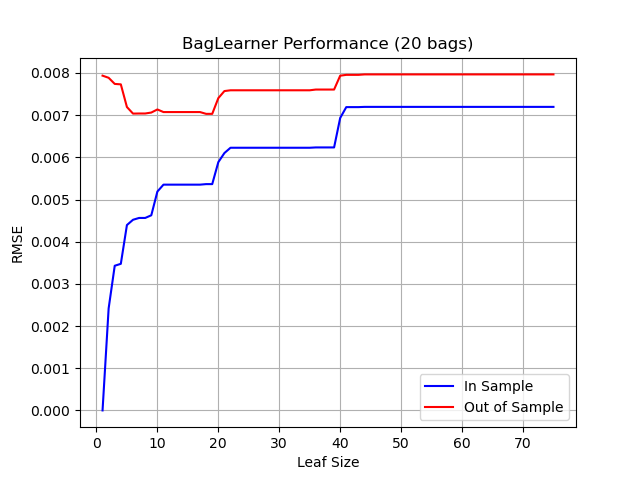
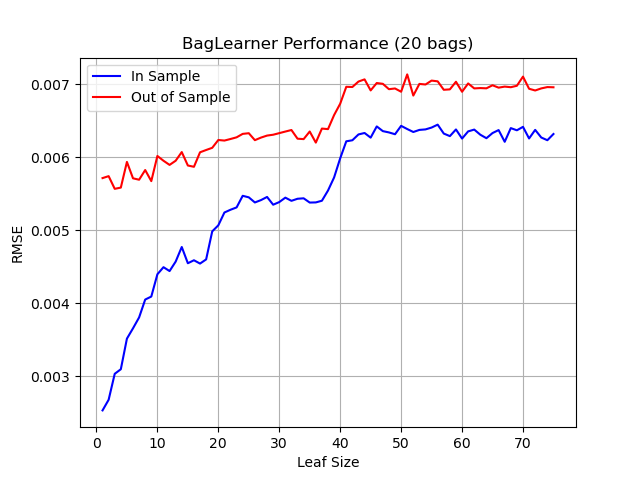
assigment completed

diff --git a/assess_learners/testlearner.py b/assess_learners/testlearner.py
@@ -25,6 +25,7 @@ GT honor code violation.
 
 import math
 import sys
+import time
 
 import numpy as np
 import matplotlib.pyplot as plt
@@ -103,6 +104,57 @@ def evaluate_bag_leaf_sizes(train_x, train_y, test_x, test_y, num_bags=20, max_l
     plt.close()
     return result
 
+def depth_from_node(tree, index):
+    if tree[index, 0] == -1:
+        return 0
+    left = index + int(tree[index, 2])
+    right = index + int(tree[index, 3])
+    return 1 + max(depth_from_node(tree, left), depth_from_node(tree, right))
+
+def evaluate_dt_vs_rt(train_x, train_y, max_leaf=75,
+                      savepath_depth='./images/depth_dt_rt.png',
+                      savepath_time='./images/time_dt_rt.png'):
+    dt_depths, rt_depths = [], []
+    dt_times, rt_times = [], []
+
+    for i in range(1, max_leaf + 1):
+        learner = dt.DTLearner(leaf_size=i, verbose=False)
+        start = time.time()
+        learner.add_evidence(train_x, train_y)
+        dt_times.append(time.time() - start)
+        dt_depths.append(depth_from_node(learner.tree, 0))
+
+        learner = rt.RTLearner(leaf_size=i, verbose=False)
+        start = time.time()
+        learner.add_evidence(train_x, train_y)
+        rt_times.append(time.time() - start)
+        rt_depths.append(depth_from_node(learner.tree, 0))
+
+    leaf_sizes = range(1, max_leaf + 1)
+
+    plt.close('all')
+    plt.figure()
+    plt.plot(leaf_sizes, dt_depths, color='blue', label='DTLearner')
+    plt.plot(leaf_sizes, rt_depths, color='red', label='RTLearner')
+    plt.xlabel('Leaf Size')
+    plt.ylabel('Tree Depth')
+    plt.title('DTLearner vs RTLearner: Tree Depth')
+    plt.legend()
+    plt.grid()
+    plt.savefig(savepath_depth)
+    plt.close()
+
+    plt.figure()
+    plt.plot(leaf_sizes, dt_times, color='blue', label='DTLearner')
+    plt.plot(leaf_sizes, rt_times, color='red', label='RTLearner')
+    plt.xlabel('Leaf Size')
+    plt.ylabel('Training Time (s)')
+    plt.title('DTLearner vs RTLearner: Training Time')
+    plt.legend()
+    plt.grid()
+    plt.savefig(savepath_time)
+    plt.close()
+
 if __name__ == "__main__":
 
     if len(sys.argv) != 2:
@@ -132,6 +184,7 @@ if __name__ == "__main__":
     # run evaluation and save plot
 
     evaluate_dt_leaf_sizes(train_x, train_y, test_x, test_y)
-    evaluate_bag_leaf_sizes(train_x, train_y, test_x, test_y, num_bags=20)
+    evaluate_bag_leaf_sizes(train_x, train_y, test_x, test_y, num_bags=20, max_leaf=75)
+    evaluate_dt_vs_rt(train_x, train_y, max_leaf=75)
 
 

diff --git a/assess_learners/BagLearner.py b/assess_learners/BagLearner.py
@@ -1,3 +1,5 @@
+import numpy as np
+
 class BagLearner:
     def __init__(self, learner, kwargs, bags, boost=False, verbose=False):
         self.learners = []
@@ -13,7 +15,8 @@ class BagLearner:
         
     def add_evidence(self, dataX, dataY):
         for learner in self.learners:
-            learner.add_evidence(dataX, dataY)
+            indices = np.random.choice(dataX.shape[0], dataX.shape[0], replace=True)
+            learner.add_evidence(dataX[indices], dataY[indices])
 
     def query(self, points):
         predictions = []